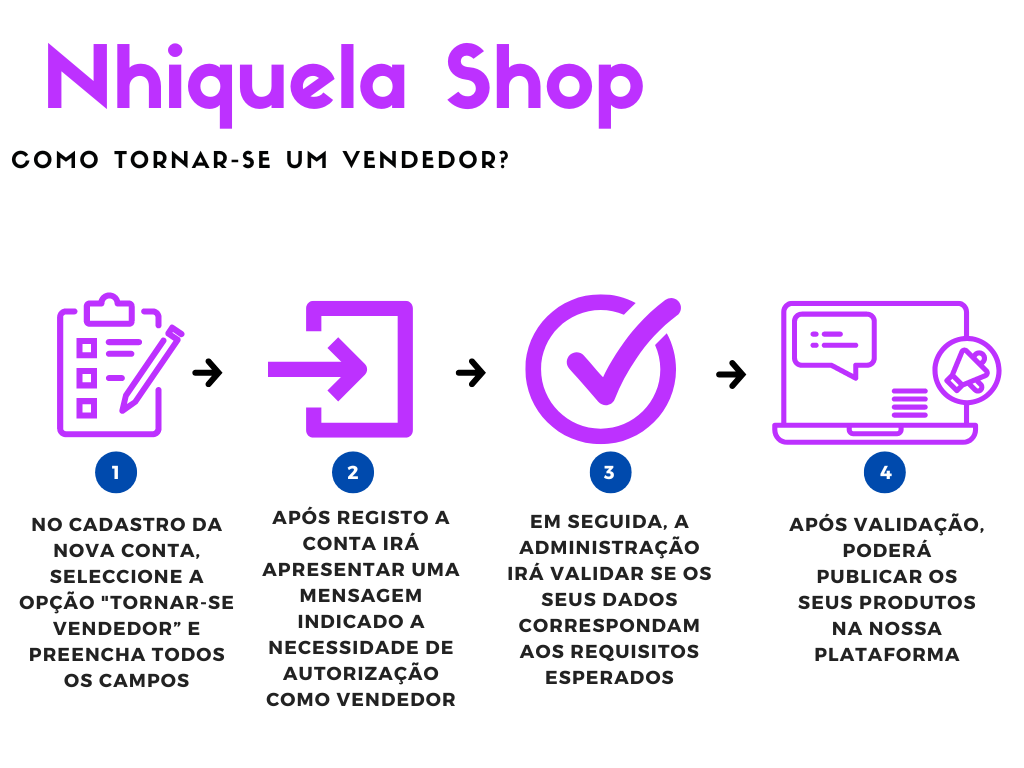
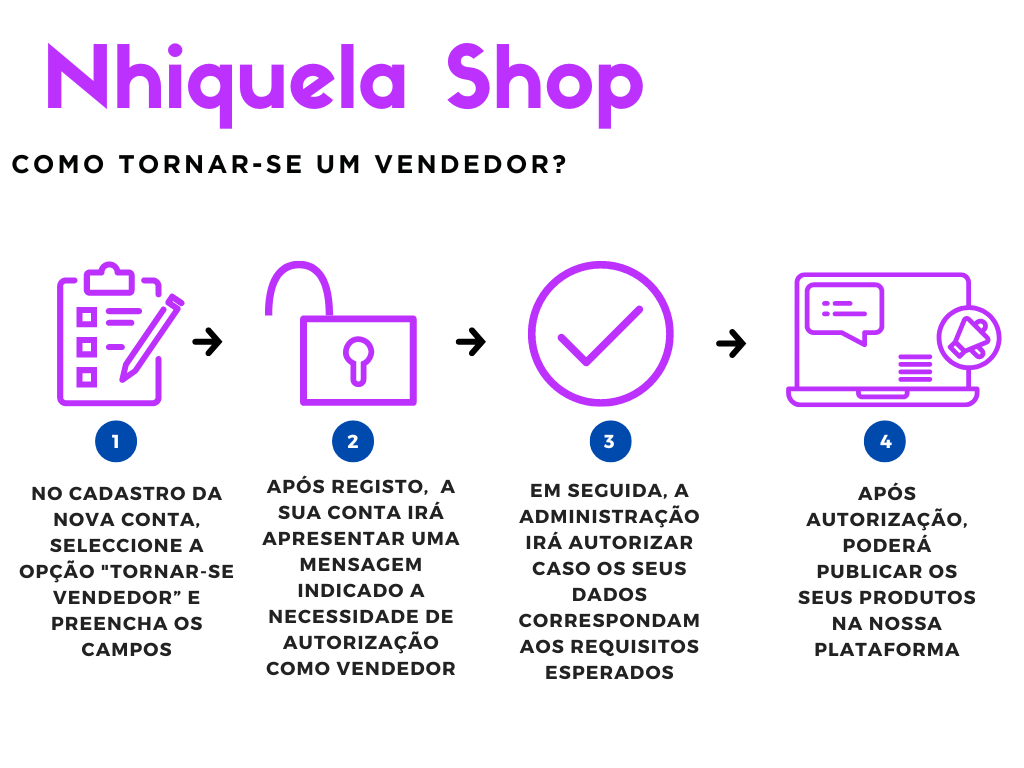
correcao de tamanho de imagens e customizacao da tela do vendedor

diff --git a/frontend/src/components/Product.js b/frontend/src/components/Product.js
@@ -12,7 +12,7 @@ function Product(props) {
         <Card className="product zoom-image" >
           <Link to={`/product/${product.slug}`}>
            
-          <Card.Img variant="top" src={product.image} alt="Card image" />
+          <Card.Img variant="top" style={{height: '200px'}} src={product.image} alt="Card image" />
           </Link>
           <div className="product-info small ">
             <Link className="link-none" to={`/product/${product.slug}`}>

diff --git a/frontend/src/index.css b/frontend/src/index.css
@@ -203,7 +203,7 @@ table {
 @media (min-width: 992px){
 
   .img-carousel{
-    height: 30rem;
+    height: 320px;
     width: 100%;
     border-radius: 8px;
   align-items: center;